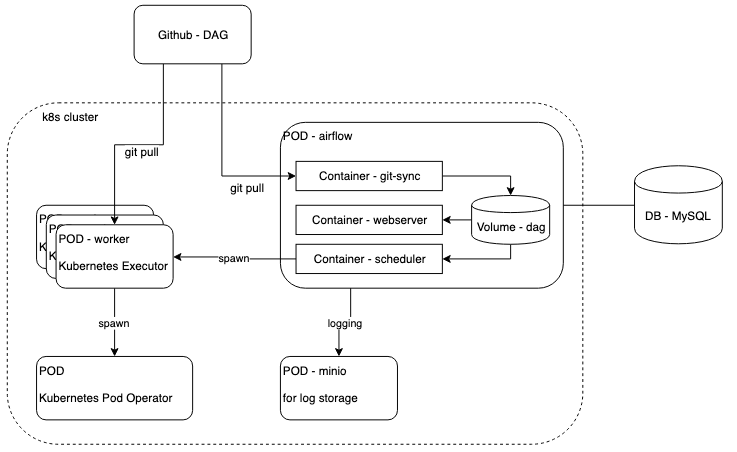
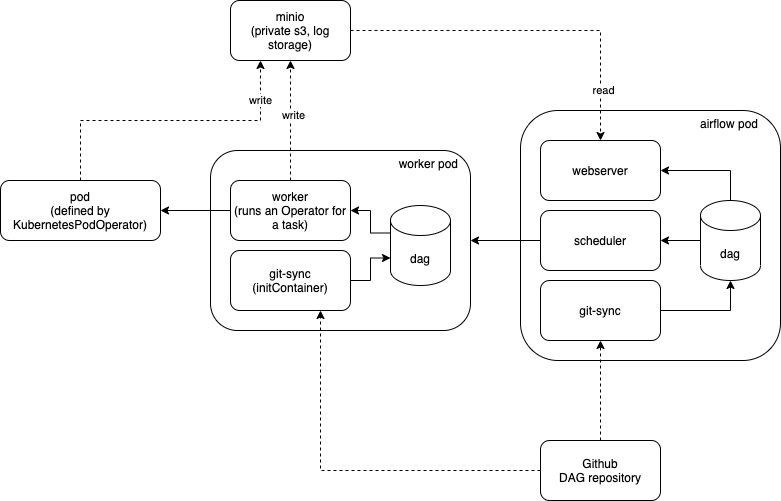
Site updated: 2020-10-19 11:27:40

diff --git a/2019/07/12/airflow-on-k8s/index.html b/2019/07/12/airflow-on-k8s/index.html
@@ -15,7 +15,7 @@
 <meta property="og:locale">
 <meta property="og:image" content="https://humbledude.github.io/blog/2019/07/12/airflow-on-k8s/layout.png">
 <meta property="article:published_time" content="2019-07-11T15:00:00.000Z">
-<meta property="article:modified_time" content="2020-10-13T13:26:39.829Z">
+<meta property="article:modified_time" content="2020-10-19T02:26:59.610Z">
 <meta property="article:author" content="keunhui park">
 <meta property="article:tag" content="kubernetes">
 <meta property="article:tag" content="airflow">
@@ -123,7 +123,7 @@
 
     </div>
     <div id="toc">
-      <ol class="toc"><li class="toc-item toc-level-2"><a class="toc-link" href="#%EA%B5%AC%EC%84%B1"><span class="toc-number">1.</span> <span class="toc-text">구성</span></a><ol class="toc-child"><li class="toc-item toc-level-3"><a class="toc-link" href="#docker-image"><span class="toc-number">1.1.</span> <span class="toc-text">docker image</span></a></li><li class="toc-item toc-level-3"><a class="toc-link" href="#airflow-cfg"><span class="toc-number">1.2.</span> <span class="toc-text">airflow.cfg</span></a></li><li class="toc-item toc-level-3"><a class="toc-link" href="#k8s-%EA%B5%AC%EC%84%B1-helm"><span class="toc-number">1.3.</span> <span class="toc-text">k8s 구성 (helm)</span></a><ol class="toc-child"><li class="toc-item toc-level-4"><a class="toc-link" href="#ClusterRoleBinding"><span class="toc-number">1.3.1.</span> <span class="toc-text">ClusterRoleBinding</span></a></li><li class="toc-item toc-level-4"><a class="toc-link" href="#Deployment"><span class="toc-number">1.3.2.</span> <span class="toc-text">Deployment</span></a></li><li class="toc-item toc-level-4"><a class="toc-link" href="#ConfigMap"><span class="toc-number">1.3.3.</span> <span class="toc-text">ConfigMap</span></a></li></ol></li></ol></li><li class="toc-item toc-level-2"><a class="toc-link" href="#%EC%82%AC%EC%9A%A9%ED%95%98%EB%8B%A4%EB%B3%B4%EB%8B%88"><span class="toc-number">2.</span> <span class="toc-text">사용하다보니..</span></a><ol class="toc-child"><li class="toc-item toc-level-3"><a class="toc-link" href="#dag-%EC%A0%80%EC%9E%A5%EC%86%8C-%EA%B5%AC%EC%84%B1"><span class="toc-number">2.1.</span> <span class="toc-text">dag 저장소 구성</span></a></li><li class="toc-item toc-level-3"><a class="toc-link" href="#parallelism-vs-dag-concurrncy-vs-max-active-runs"><span class="toc-number">2.2.</span> <span class="toc-text">parallelism vs dag_concurrncy vs max_active_runs</span></a></li></ol></li></ol>
+      <ol class="toc"><li class="toc-item toc-level-2"><a class="toc-link" href="#%EA%B5%AC%EC%84%B1"><span class="toc-number">1.</span> <span class="toc-text">구성</span></a><ol class="toc-child"><li class="toc-item toc-level-3"><a class="toc-link" href="#docker-image"><span class="toc-number">1.1.</span> <span class="toc-text">docker image</span></a></li><li class="toc-item toc-level-3"><a class="toc-link" href="#airflow-cfg"><span class="toc-number">1.2.</span> <span class="toc-text">airflow.cfg</span></a></li><li class="toc-item toc-level-3"><a class="toc-link" href="#k8s-%EA%B5%AC%EC%84%B1-helm"><span class="toc-number">1.3.</span> <span class="toc-text">k8s 구성 (helm)</span></a><ol class="toc-child"><li class="toc-item toc-level-4"><a class="toc-link" href="#ClusterRoleBinding"><span class="toc-number">1.3.1.</span> <span class="toc-text">ClusterRoleBinding</span></a></li><li class="toc-item toc-level-4"><a class="toc-link" href="#Deployment"><span class="toc-number">1.3.2.</span> <span class="toc-text">Deployment</span></a></li><li class="toc-item toc-level-4"><a class="toc-link" href="#ConfigMap"><span class="toc-number">1.3.3.</span> <span class="toc-text">ConfigMap</span></a></li></ol></li></ol></li><li class="toc-item toc-level-2"><a class="toc-link" href="#%EC%82%AC%EC%9A%A9%ED%95%98%EB%8B%A4%EB%B3%B4%EB%8B%88"><span class="toc-number">2.</span> <span class="toc-text">사용하다보니..</span></a><ol class="toc-child"><li class="toc-item toc-level-3"><a class="toc-link" href="#dag-%EC%A0%80%EC%9E%A5%EC%86%8C-%EA%B5%AC%EC%84%B1"><span class="toc-number">2.1.</span> <span class="toc-text">dag 저장소 구성</span></a></li><li class="toc-item toc-level-3"><a class="toc-link" href="#parallelism-vs-dag-concurrncy-vs-max-active-runs"><span class="toc-number">2.2.</span> <span class="toc-text">parallelism vs dag_concurrncy vs max_active_runs</span></a></li><li class="toc-item toc-level-3"><a class="toc-link" href="#%EA%B8%B0%ED%83%80"><span class="toc-number">2.3.</span> <span class="toc-text">기타</span></a></li></ol></li></ol>
     </div>
   </span>
 </div>
@@ -174,7 +174,7 @@
 <p>kube/deploy.sh 를 실행시키면 되는 구조인데, 스크립트를 열어보면 별로 실행시키고 싶지가 않다..<br>보통 kubernetes 배포라면 helm 이라든지 툴이 많은데, 이걸 직접 template 만들고 shell script 로 쓰다니.. ㅠㅠ</p>
 <p>Airflow Helm Chart 는 여기에 있다. 공식 chart 인지는 모르겠지만..</p>
 <p><a target="_blank" rel="noopener" href="https://github.com/helm/charts/tree/master/stable/airflow">https://github.com/helm/charts/tree/master/stable/airflow</a></p>
-<p>근데 이건 기존의 Celery 구성을 그대로 Kubernetes 에 올리는 설정이라, 새로 개발된 Kubernetes Executor 를 사용하지 않았다.<br>Kubernetes native 라면 필요할때 executor 가 올라가서 필요한 만큼만의 resource 를 사용해야 하는데, Celery 가 상주해있는 모양은 k8s native 답지 않아 보였다.<br>이에 따라 Kubernetes native Airflow 의 Helm chart 를 작성하기에 이르렀다.. (삽질의 시작)</p>
+<p>근데 이건 기존의 Celery 구성을 그대로 Kubernetes 에 올리는 설정이라, 새로 개발된 Kubernetes Executor 를 사용하지 않았다.<br>Kubernetes native 라면 필요할때 executor 가 올라가서 필요한 만큼만의 resource 를 사용해야 하는데, Celery 가 상주해있는 모양은 k8s native 답지 않아 보였다.  이에 따라 Kubernetes native Airflow 의 Helm chart 를 작성하기에 이르렀다.. (삽질의 시작)</p>
 <p>여러 삽질 끝에 Kubernetes native Airflow 를 쓰려면 아래와 같은 구성이 필요함을 깨달았다.</p>
 <ul>
 <li>DB (MySql or Postgresql 등) - 각종 상태 저장</li>
@@ -192,7 +192,7 @@
 <li>airflow pod 안에 git-sync 컨테이너를 두어 주기적으로 git pull 을 하게 하고, 나머지 webserver,  scheduler 에서는 dag 를 read only 로 사용한다.</li>
 </ul>
 </li>
-<li>airflow 가 <code>KubernetesExecutor</code> 를 사용하게 되면, task 마다 별도의 pod 를 구성해서 task 를 실행하게 된다.<ul>
+<li>airflow 가 <code>KubernetesExecutor</code> 를 사용하게 되면, task 마다 별도의 worker pod 를 실행해서 task 를 실행하게 된다.<ul>
 <li>task 가 <code>KubernetesPodOperator</code> 를 사용해서 구성되어있다면, <code>KubernetesExecutor</code> 는 또 pod 를 생성해서 거기서 작업을 실행한다.</li>
 <li>task 가 그외의 Operator 를 사용한다면, <code>KubernetesExecutor</code> pod 안에서 해당 작업 (예를 들어 <code>SimpleHttpOperator</code> 등) 이 실행된다.</li>
 </ul>
@@ -248,6 +248,9 @@
 <li><code>concurrency</code> 는 동시에 돌 수 있는 task instance 의 갯수이다. dag 에서 설정</li>
 </ul>
 <p>여기서, <code>KubernetesExecutor</code> 를 사용한다면 task instance 마다 worker 가 생겨서 돌기 때문에, worker 가 사용하는 리소스도 고려 해야 한다.<br>worker 가 <code>KubernetesPodOperator</code> 를 구동한다면 하나의 pod 가 더 생성되고, 해당 pod 의 리소스 사용은 dag 에서 제한할 수 있는데, worker pod 자체의 리소스 관리 옵션은 따로 없는 듯 하다.<br>따라서 worker 에서 빡센? 작업을 하지 않도록 해야 하고, 특별히 빡센 작업을 하게 된다면 <code>KubernetesPodOperator</code> 로 따로 지정하고 리소스 관리를 하는게 좋겠다.</p>
+<h3 id="기타"><a href="#기타" class="headerlink" title="기타"></a>기타</h3><ul>
+<li>2020-10-19 업데이트 : 그동안의 깨달음을 바탕으로 전체 구조 그림, 글 좀 수정..</li>
+</ul>
 
   </div>
 </article>
@@ -291,7 +294,7 @@
     </div>
 
     <div id="toc-footer" style="display: none">
-      <ol class="toc"><li class="toc-item toc-level-2"><a class="toc-link" href="#%EA%B5%AC%EC%84%B1"><span class="toc-number">1.</span> <span class="toc-text">구성</span></a><ol class="toc-child"><li class="toc-item toc-level-3"><a class="toc-link" href="#docker-image"><span class="toc-number">1.1.</span> <span class="toc-text">docker image</span></a></li><li class="toc-item toc-level-3"><a class="toc-link" href="#airflow-cfg"><span class="toc-number">1.2.</span> <span class="toc-text">airflow.cfg</span></a></li><li class="toc-item toc-level-3"><a class="toc-link" href="#k8s-%EA%B5%AC%EC%84%B1-helm"><span class="toc-number">1.3.</span> <span class="toc-text">k8s 구성 (helm)</span></a><ol class="toc-child"><li class="toc-item toc-level-4"><a class="toc-link" href="#ClusterRoleBinding"><span class="toc-number">1.3.1.</span> <span class="toc-text">ClusterRoleBinding</span></a></li><li class="toc-item toc-level-4"><a class="toc-link" href="#Deployment"><span class="toc-number">1.3.2.</span> <span class="toc-text">Deployment</span></a></li><li class="toc-item toc-level-4"><a class="toc-link" href="#ConfigMap"><span class="toc-number">1.3.3.</span> <span class="toc-text">ConfigMap</span></a></li></ol></li></ol></li><li class="toc-item toc-level-2"><a class="toc-link" href="#%EC%82%AC%EC%9A%A9%ED%95%98%EB%8B%A4%EB%B3%B4%EB%8B%88"><span class="toc-number">2.</span> <span class="toc-text">사용하다보니..</span></a><ol class="toc-child"><li class="toc-item toc-level-3"><a class="toc-link" href="#dag-%EC%A0%80%EC%9E%A5%EC%86%8C-%EA%B5%AC%EC%84%B1"><span class="toc-number">2.1.</span> <span class="toc-text">dag 저장소 구성</span></a></li><li class="toc-item toc-level-3"><a class="toc-link" href="#parallelism-vs-dag-concurrncy-vs-max-active-runs"><span class="toc-number">2.2.</span> <span class="toc-text">parallelism vs dag_concurrncy vs max_active_runs</span></a></li></ol></li></ol>
+      <ol class="toc"><li class="toc-item toc-level-2"><a class="toc-link" href="#%EA%B5%AC%EC%84%B1"><span class="toc-number">1.</span> <span class="toc-text">구성</span></a><ol class="toc-child"><li class="toc-item toc-level-3"><a class="toc-link" href="#docker-image"><span class="toc-number">1.1.</span> <span class="toc-text">docker image</span></a></li><li class="toc-item toc-level-3"><a class="toc-link" href="#airflow-cfg"><span class="toc-number">1.2.</span> <span class="toc-text">airflow.cfg</span></a></li><li class="toc-item toc-level-3"><a class="toc-link" href="#k8s-%EA%B5%AC%EC%84%B1-helm"><span class="toc-number">1.3.</span> <span class="toc-text">k8s 구성 (helm)</span></a><ol class="toc-child"><li class="toc-item toc-level-4"><a class="toc-link" href="#ClusterRoleBinding"><span class="toc-number">1.3.1.</span> <span class="toc-text">ClusterRoleBinding</span></a></li><li class="toc-item toc-level-4"><a class="toc-link" href="#Deployment"><span class="toc-number">1.3.2.</span> <span class="toc-text">Deployment</span></a></li><li class="toc-item toc-level-4"><a class="toc-link" href="#ConfigMap"><span class="toc-number">1.3.3.</span> <span class="toc-text">ConfigMap</span></a></li></ol></li></ol></li><li class="toc-item toc-level-2"><a class="toc-link" href="#%EC%82%AC%EC%9A%A9%ED%95%98%EB%8B%A4%EB%B3%B4%EB%8B%88"><span class="toc-number">2.</span> <span class="toc-text">사용하다보니..</span></a><ol class="toc-child"><li class="toc-item toc-level-3"><a class="toc-link" href="#dag-%EC%A0%80%EC%9E%A5%EC%86%8C-%EA%B5%AC%EC%84%B1"><span class="toc-number">2.1.</span> <span class="toc-text">dag 저장소 구성</span></a></li><li class="toc-item toc-level-3"><a class="toc-link" href="#parallelism-vs-dag-concurrncy-vs-max-active-runs"><span class="toc-number">2.2.</span> <span class="toc-text">parallelism vs dag_concurrncy vs max_active_runs</span></a></li><li class="toc-item toc-level-3"><a class="toc-link" href="#%EA%B8%B0%ED%83%80"><span class="toc-number">2.3.</span> <span class="toc-text">기타</span></a></li></ol></li></ol>
     </div>
 
     <div id="share-footer" style="display: none">
